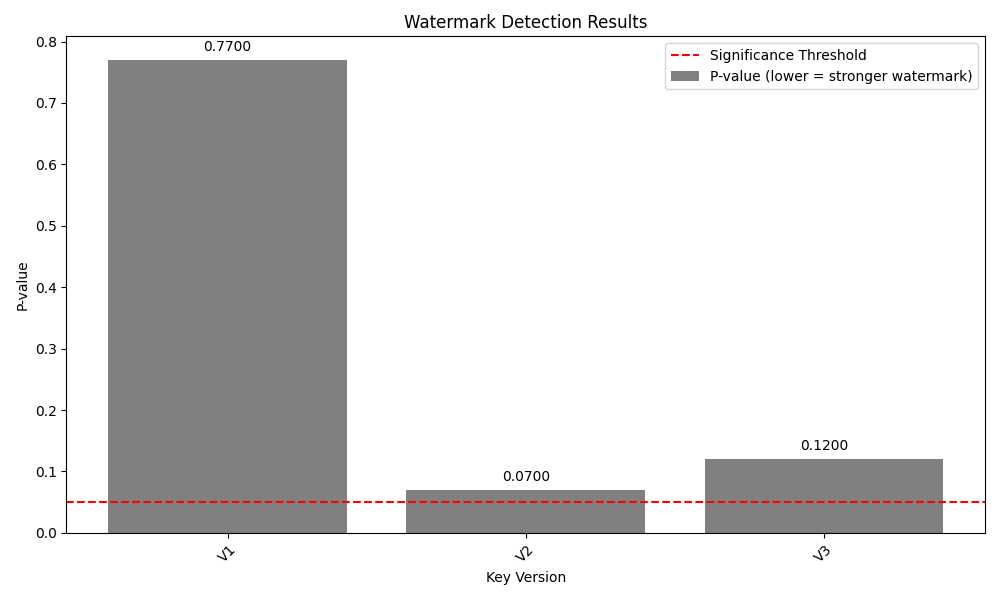
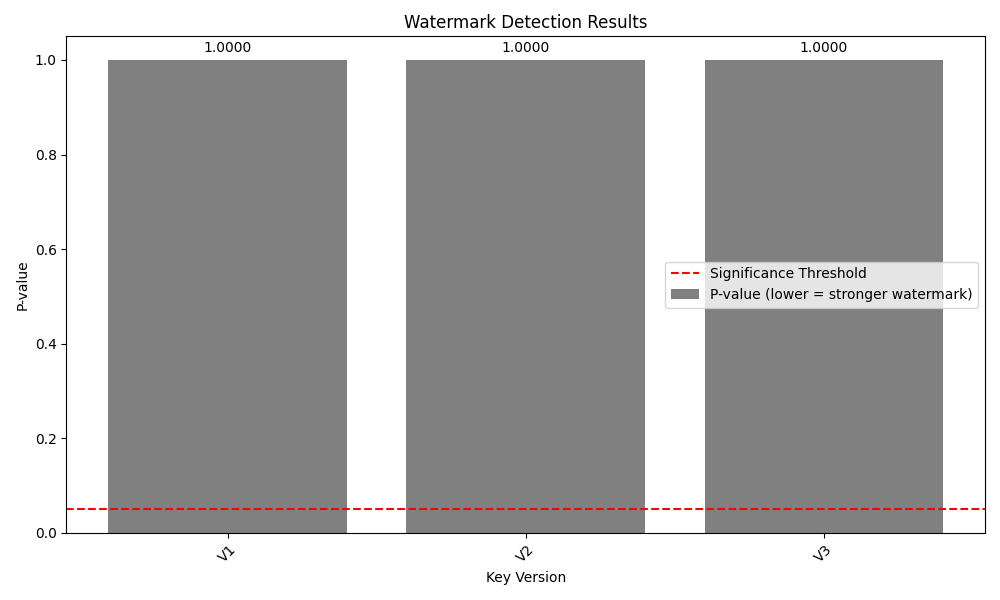
Update Prompt

diff --git a/watermarking/detection.py b/watermarking/detection.py
@@ -306,7 +306,7 @@ def generate_null_distribution(vocab_size, n, k, n_samples=300, max_seed=100000)
     return null_results
 
 
-def detect_watermark(text, tokenizer, n=128, k=4, key=42, use_fast=False, null_distribution=None):
+def detect_watermark(text, tokenizer, n=128, k=4, key=42, use_fast=False, null_distribution=None, verbose=False):
     """
     Run watermark detection on the given text.
 
@@ -318,15 +318,18 @@ def detect_watermark(text, tokenizer, n=128, k=4, key=42, use_fast=False, null_d
         key (int): Key for watermark generation
         use_fast (bool): Whether to use fast permutation test
         null_distribution (torch.Tensor): Pre-computed null distribution
+        verbose (bool): Whether to print progress information
 
     Returns:
         float: p-value indicating how likely the text is watermarked
     """
-    print(f"\nStarting watermark detection with parameters:")
-    print(f"- Text length: {len(text)} characters")
-    print(f"- Key: {key}")
-    print(f"- n: {n}, k: {k}")
-    print(f"- Method: {'Fast' if use_fast else 'Standard'} permutation test")
+    if verbose:
+        print(f"\nStarting watermark detection with parameters:")
+        print(f"- Text length: {len(text)} characters")
+        print(f"- Key: {key}")
+        print(f"- n: {n}, k: {k}")
+        print(
+            f"- Method: {'Fast' if use_fast else 'Standard'} permutation test")
 
     # L1 distance function
     def l1_dist(x, y):
@@ -353,22 +356,26 @@ def detect_watermark(text, tokenizer, n=128, k=4, key=42, use_fast=False, null_d
         return xi, pi
 
     # Test statistic function
-    def phi_test(tokens, n, k, generator, vocab_size, null=False, verbose=False):
+    def phi_test(tokens, n, k, generator, vocab_size, null=False, verbose=verbose):
         return phi(tokens, n, k, generator, key_func, vocab_size, l1_dist, null, normalize=True, verbose=verbose)
 
     # Tokenize the text
-    print("Tokenizing text...")
+    if verbose:
+        print("Tokenizing text...")
     tokens = torch.tensor(tokenizer.encode(text))
-    print(f"Text tokenized to {len(tokens)} tokens")
+    if verbose:
+        print(f"Text tokenized to {len(tokens)} tokens")
 
     # Check if text is too short
     if len(tokens) < k:
-        print("Text too short for detection.")
+        if verbose:
+            print("Text too short for detection.")
         return 1.0  # Not watermarked
 
     # Choose detection method
     if use_fast and null_distribution is not None:
-        print("Running fast permutation test...")
+        if verbose:
+            print("Running fast permutation test...")
         p_value = fast_permutation_test(
             tokens=tokens,
             vocab_size=len(tokenizer),
@@ -380,11 +387,12 @@ def detect_watermark(text, tokenizer, n=128, k=4, key=42, use_fast=False, null_d
         )
     else:
         # If fast requested but no null distribution, or if standard requested
-        if use_fast:
+        if use_fast and verbose:
             print(
                 "No null distribution provided. Falling back to standard permutation test.")
 
-        print("Running standard permutation test...")
+        if verbose:
+            print("Running standard permutation test...")
         p_value = permutation_test(
             tokens=tokens,
             vocab_size=len(tokenizer),
@@ -395,6 +403,8 @@ def detect_watermark(text, tokenizer, n=128, k=4, key=42, use_fast=False, null_d
             n_runs=100
         )
 
-    print(
-        f"Detection complete. P-value: {p_value.item() if hasattr(p_value, 'item') else p_value}")
+    if verbose:
+        print(
+            f"Detection complete. P-value: {p_value.item() if hasattr(p_value, 'item') else p_value}")
+
     return p_value.item() if hasattr(p_value, 'item') else p_value

diff --git a/examples/test.py b/examples/test.py
@@ -3,7 +3,7 @@ import os
 import torch
 import numpy as np
 from transformers import AutoTokenizer, AutoModelForCausalLM
-from watermarking.detection import detect_watermark
+from watermarking.detection import detect_watermark, generate_null_distribution
 from paraphraser.paraphrase import paraphrase_text, paraphrase_without_watermark
 
 # Explicitly disable tokenizer parallelism to avoid fork warnings
@@ -26,6 +26,13 @@ def main():
     parser.add_argument("--verbose", action="store_true",
                         help="Show generation process")
     parser.add_argument("--output", type=str, help="Output file for results")
+
+    parser.add_argument("--null-file", type=str,
+                        help="Pre-computed null distribution file")
+    parser.add_argument("--null-samples", type=int, default=300,
+                        help="Number of samples for null distribution")
+    parser.add_argument("--save-null", type=str,
+                        help="Save generated null distribution to file")
 
     args = parser.parse_args()
 
@@ -80,6 +87,28 @@ def main():
         verbose=args.verbose
     )
 
+    # Get or generate null distribution
+    null_distribution = None
+    if args.null_file and os.path.exists(args.null_file):
+        print(f"\n\n=== Loading null distribution from {args.null_file}...===")
+        null_distribution = torch.load(args.null_file)
+        print(
+            f"Loaded null distribution with {len(null_distribution)} samples")
+    else:
+        print(
+            f"\nGenerating null distribution with {args.null_samples} samples...")
+        null_distribution = generate_null_distribution(
+            vocab_size=len(tokenizer),
+            n=args.n,
+            k=args.k,
+            n_samples=args.null_samples
+        )
+
+        # Save null distribution if requested
+        if args.save_null:
+            print(f"Saving null distribution to {args.save_null}...")
+            torch.save(null_distribution, args.save_null)
+
     # Detect watermarks in both texts
     print("\n\n=== Running watermark detection ===")
     print("This may take some time...")
@@ -89,7 +118,10 @@ def main():
         tokenizer,
         n=args.n,
         k=args.k,
-        key=args.key
+        key=args.key,
+        use_fast=True,
+        null_distribution=null_distribution,
+        verbose=True
     )
 
     print("\nDetecting watermarks in non-watermarked text...")
@@ -98,7 +130,10 @@ def main():
         tokenizer,
         n=args.n,
         k=args.k,
-        key=args.key
+        key=args.key,
+        use_fast=True,
+        null_distribution=null_distribution,
+        verbose=True
     )
     # Display results
     print("\n\n=== RESULTS ===")
@@ -154,3 +189,5 @@ def main():
 
 if __name__ == "__main__":
     main()
+
+# python -m examples.test --file data/email.txt --verbose

diff --git a/paraphraser/paraphrase.py b/paraphraser/paraphrase.py
@@ -6,27 +6,11 @@ from watermarking.generation import generate_shift
 from watermarking.generation import generate_rnd
 
 EMAIL_PARAPHRASE_PROMPT_TEMPLATE = """
-TASK: Reword the following email using different vocabulary but EXACTLY preserve its complete meaning.
+TASK: Reword the following using different vocabulary but EXACTLY preserve its complete meaning.
 IMPORTANT: You must maintain the EXACT same:
-- Greeting (Hi Team)
 - Structure (same paragraphs)
 - All information and details
 - Professional tone
-- Signature format
-
-DO NOT respond to the email or write a new email. ONLY rewrite it with different words.
-
-EXAMPLE INPUT:
-Hi Team,
-I need your reports by Friday.
-Thanks,
-John
-
-EXAMPLE OUTPUT:
-Hi Team,
-Please submit your documents before the weekend.
-Appreciated,
-John
 
 Now rewrite this email:
 
